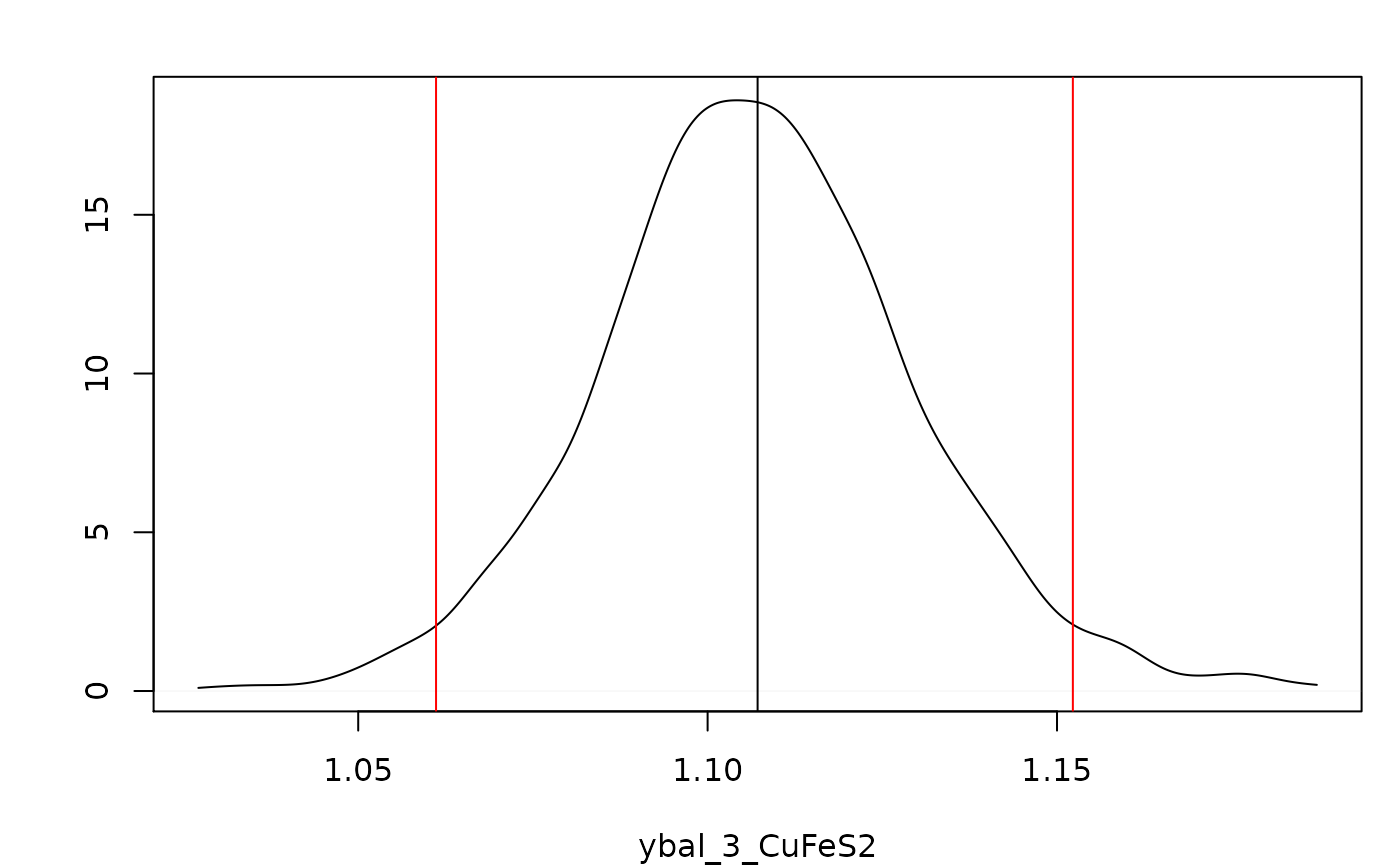
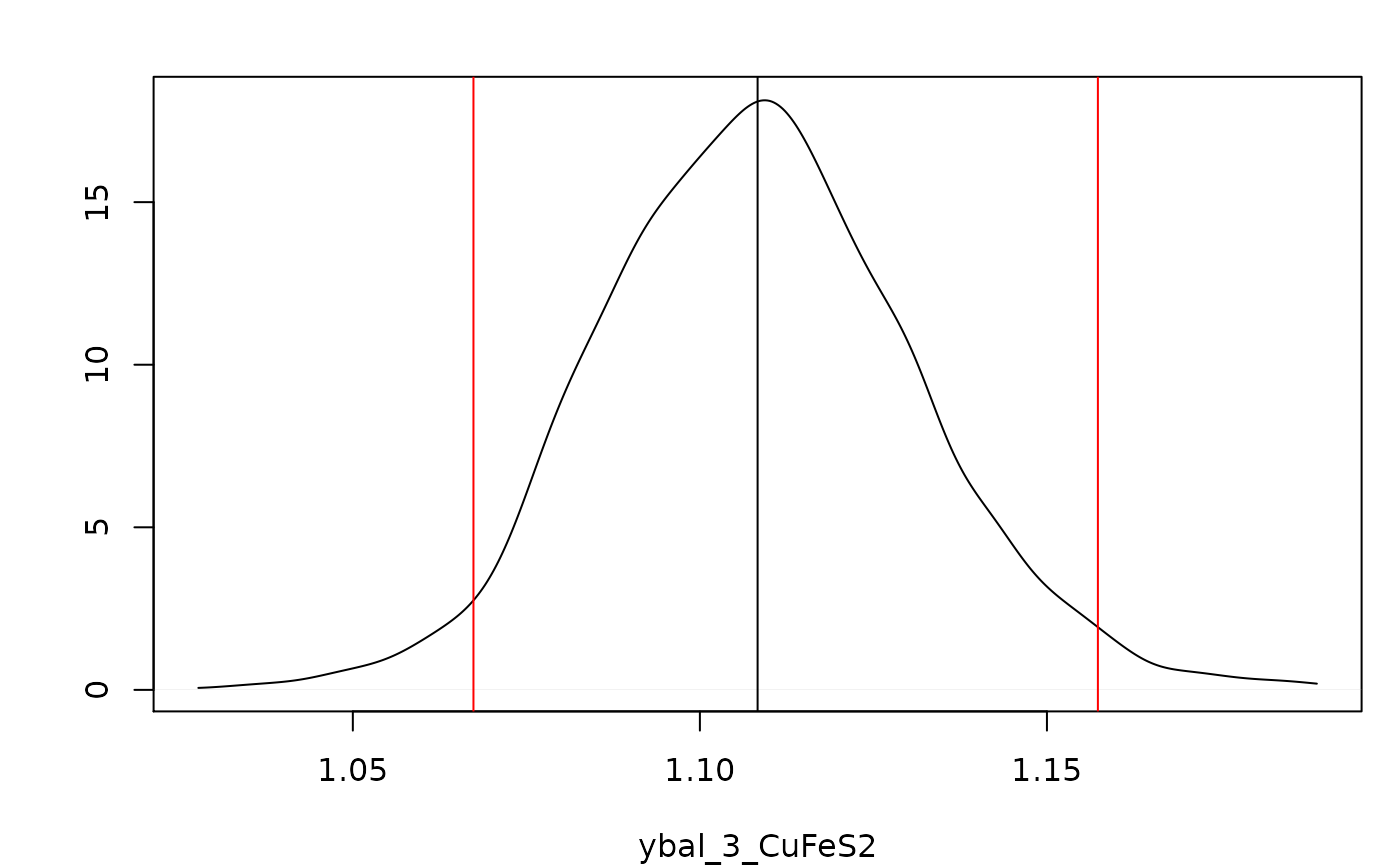
minor changes before submission

diff --git a/docs/articles/Two_Node_Process.html b/docs/articles/Two_Node_Process.html
@@ -89,7 +89,7 @@
       <h1 data-toc-skip>Two_Node_Process</h1>
                         <h4 class="author">Scott Koermer</h4>
             
-            <h4 class="date">2020-11-08</h4>
+            <h4 class="date">2020-11-09</h4>
       
       <small class="dont-index">Source: <a href="https://github.com/skoermer/BayesMassBal/blob/master/vignettes/Two_Node_Process.Rmd"><code>vignettes/Two_Node_Process.Rmd</code></a></small>
       <div class="hidden name"><code>Two_Node_Process.Rmd</code></div>
@@ -151,34 +151,34 @@ y_2 &amp;= y_3 +y_5
 <span class="va">indep.samples</span><span class="op">$</span><span class="va">diagnostics</span>
 <span class="co">#&gt; $beta</span>
 <span class="co">#&gt; $beta$CuFeS2</span>
-<span class="co">#&gt;   index          cd      ess</span>
-<span class="co">#&gt; 1     1 -0.07240032 2578.315</span>
-<span class="co">#&gt; 2     2  0.47912951 3151.158</span>
-<span class="co">#&gt; 3     3 -0.07751371 2900.000</span>
+<span class="co">#&gt;   index         cd      ess</span>
+<span class="co">#&gt; 1     1  1.3979343 2732.815</span>
+<span class="co">#&gt; 2     2 -0.1684241 2900.000</span>
+<span class="co">#&gt; 3     3  0.2693305 3163.968</span>
 <span class="co">#&gt; </span>
 <span class="co">#&gt; $beta$gangue</span>
-<span class="co">#&gt;   index        cd      ess</span>
-<span class="co">#&gt; 1     1 -1.644540 3486.481</span>
-<span class="co">#&gt; 2     2 -1.094662 2900.000</span>
-<span class="co">#&gt; 3     3 -1.420049 1654.129</span>
+<span class="co">#&gt;   index         cd      ess</span>
+<span class="co">#&gt; 1     1  0.6183079 2900.000</span>
+<span class="co">#&gt; 2     2 -1.4191940 2900.000</span>
+<span class="co">#&gt; 3     3  0.3668082 1866.849</span>
 <span class="co">#&gt; </span>
 <span class="co">#&gt; </span>
 <span class="co">#&gt; $Sig</span>
 <span class="co">#&gt; $Sig[[1]]</span>
-<span class="co">#&gt;   index         cd      ess</span>
-<span class="co">#&gt; 1     1 -0.9586344 2900.000</span>
-<span class="co">#&gt; 2     2  0.9182970 2900.000</span>
-<span class="co">#&gt; 3     3 -0.6350184 2549.251</span>
-<span class="co">#&gt; 4     4  0.3646571 2155.174</span>
-<span class="co">#&gt; 5     5  0.5131796 1830.893</span>
+<span class="co">#&gt;   index          cd      ess</span>
+<span class="co">#&gt; 1     1 -0.57749132 2900.000</span>
+<span class="co">#&gt; 2     2 -0.28618166 2900.000</span>
+<span class="co">#&gt; 3     3  1.24462006 2677.654</span>
+<span class="co">#&gt; 4     4 -0.09395031 1706.097</span>
+<span class="co">#&gt; 5     5  0.03136860 1788.442</span>
 <span class="co">#&gt; </span>
 <span class="co">#&gt; $Sig[[2]]</span>
 <span class="co">#&gt;   index         cd      ess</span>
-<span class="co">#&gt; 1     1 -0.2027267 2900.000</span>
-<span class="co">#&gt; 2     2  0.3269525 2304.216</span>
-<span class="co">#&gt; 3     3 -0.8969547 1874.293</span>
-<span class="co">#&gt; 4     4  0.1011873 2566.058</span>
-<span class="co">#&gt; 5     5  0.6621888 1928.485</span></pre></div>
+<span class="co">#&gt; 1     1  0.3152249 2900.000</span>
+<span class="co">#&gt; 2     2  0.9308457 2150.720</span>
+<span class="co">#&gt; 3     3 -2.1197132 1793.527</span>
+<span class="co">#&gt; 4     4 -1.9969727 2669.573</span>
+<span class="co">#&gt; 5     5 -2.1514198 2190.380</span></pre></div>
 <p>The model with independent variances may not be the best fitting model. Models specifying covariance between sample locations for a single component, and covariance between components at a single location are fit.</p>
 <div class="sourceCode" id="cb10"><pre class="downlit">
 <span class="va">component.samples</span> <span class="op">&lt;-</span> <span class="fu"><a href="../reference/BMB.html">BMB</a></span><span class="op">(</span>X <span class="op">=</span> <span class="va">X</span>, y <span class="op">=</span> <span class="va">y</span>, cov.structure <span class="op">=</span> <span class="st">"component"</span>, BTE <span class="op">=</span> <span class="fu"><a href="https://rdrr.io/r/base/c.html">c</a></span><span class="op">(</span><span class="fl">100</span>,<span class="fl">3000</span>,<span class="fl">1</span><span class="op">)</span>, lml <span class="op">=</span> <span class="cn">TRUE</span>, verb <span class="op">=</span> <span class="fl">0</span><span class="op">)</span></pre></div>
@@ -187,11 +187,11 @@ y_2 &amp;= y_3 +y_5
 <p>Computing <span class="math inline">\(\log(\mathrm{Bayes Factor})\)</span> for <span class="math inline">\(BF = p(y|\texttt{indep})/p(y|\texttt{component})\)</span>:</p>
 <div class="sourceCode" id="cb12"><pre class="downlit">
 <span class="va">indep.samples</span><span class="op">$</span><span class="va">lml</span> <span class="op">-</span> <span class="va">component.samples</span><span class="op">$</span><span class="va">lml</span>
-<span class="co">#&gt; [1] -126.9192</span></pre></div>
+<span class="co">#&gt; [1] -126.9039</span></pre></div>
 <p>Then comparing <span class="math inline">\(p(y|\texttt{component})\)</span> to <span class="math inline">\(p(y|\texttt{location})\)</span></p>
 <div class="sourceCode" id="cb13"><pre class="downlit">
 <span class="va">component.samples</span><span class="op">$</span><span class="va">lml</span> <span class="op">-</span> <span class="va">location.samples</span><span class="op">$</span><span class="va">lml</span>
-<span class="co">#&gt; [1] 0.8008081</span></pre></div>
+<span class="co">#&gt; [1] 0.7859362</span></pre></div>
 <p>Shows there is little difference between the models where <code>cov.structure  = "location"</code> and <code>cov.structure = "component"</code>, but both of these models better explain the data than <code>cov.structure = "indep"</code>.</p>
 <p>We can view a summary of the favored model by passing a <code>BayesMassBal</code> object to the <code>summary</code> function. While not done in this case, the summary table can be saved by passing the desired name of a <code>*.csv</code> file to the <code>export</code> argument.</p>
 <div class="sourceCode" id="cb14"><pre class="downlit">
@@ -201,33 +201,33 @@ y_2 &amp;= y_3 +y_5
 <span class="co">#&gt; CuFeS2:</span>
 <span class="co">#&gt; --------------------</span>
 <span class="co">#&gt;  Sampling Location Expected Value     95% LB     95% UB</span>
-<span class="co">#&gt;                  1     1.19777726 1.15164485 1.24984366</span>
-<span class="co">#&gt;                  2     1.17252036 1.12461802 1.22275441</span>
-<span class="co">#&gt;                  3     1.10963099 1.05733544 1.16062038</span>
-<span class="co">#&gt;                  4     0.02525690 0.01691983 0.03375422</span>
-<span class="co">#&gt;                  5     0.06288937 0.05223589 0.07362650</span>
+<span class="co">#&gt;                  1     1.19733239 1.14397147 1.24303602</span>
+<span class="co">#&gt;                  2     1.17213407 1.12358704 1.22142801</span>
+<span class="co">#&gt;                  3     1.10918956 1.05835921 1.16213675</span>
+<span class="co">#&gt;                  4     0.02519832 0.01676847 0.03377706</span>
+<span class="co">#&gt;                  5     0.06294451 0.05206706 0.07274191</span>
 <span class="co">#&gt; </span>
 <span class="co">#&gt; gangue:</span>
 <span class="co">#&gt; --------------------</span>
 <span class="co">#&gt;  Sampling Location Expected Value     95% LB     95% UB</span>
-<span class="co">#&gt;                  1    100.1212613 94.9474147 105.151859</span>
-<span class="co">#&gt;                  2      6.6542360  5.7586941   7.493315</span>
-<span class="co">#&gt;                  3      0.2601138  0.2245473   0.291954</span>
-<span class="co">#&gt;                  4     93.4670253 88.8766105  98.386855</span>
-<span class="co">#&gt;                  5      6.3941222  5.4969189   7.228297</span>
+<span class="co">#&gt;                  1    100.2105611 95.3578936 105.269003</span>
+<span class="co">#&gt;                  2      6.6696064  5.8746943   7.468831</span>
+<span class="co">#&gt;                  3      0.2605252  0.2291955   0.296636</span>
+<span class="co">#&gt;                  4     93.5409547 88.6529290  98.124542</span>
+<span class="co">#&gt;                  5      6.4090812  5.6123125   7.193310</span>
 <span class="co">#&gt; </span>
 <span class="co">#&gt; Total:</span>
 <span class="co">#&gt; --------------------</span>
 <span class="co">#&gt;  Sampling Location Expected Value    95% LB     95% UB</span>
-<span class="co">#&gt;                  1     101.319039 96.534361 106.719512</span>
-<span class="co">#&gt;                  2       7.826756  6.920009   8.661167</span>
-<span class="co">#&gt;                  3       1.369745  1.313347   1.434416</span>
-<span class="co">#&gt;                  4      93.492282 88.896270  98.406859</span>
-<span class="co">#&gt;                  5       6.457012  5.553997   7.286979</span>
+<span class="co">#&gt;                  1     101.407893 96.574737 106.474593</span>
+<span class="co">#&gt;                  2       7.841740  7.051052   8.647296</span>
+<span class="co">#&gt;                  3       1.369715  1.313260   1.432862</span>
+<span class="co">#&gt;                  4      93.566153 88.737090  98.209530</span>
+<span class="co">#&gt;                  5       6.472026  5.664547   7.246691</span>
 <span class="co">#&gt; </span>
 <span class="co">#&gt; </span>
 <span class="co">#&gt; log-marginal likelihood:</span>
-<span class="co">#&gt; -66.0260902365243</span></pre></div>
+<span class="co">#&gt; -66.0396566937608</span></pre></div>
 <p>The main effect of a variable independent of the process can be calculated by supplying a function, <code>fn</code> that takes the arguments of mass balanced flow rates <code>ybal</code>, and the random independent and uniformly distributed variables <code>x</code>. Information can be gained on the main effect of a particular element of <code>x</code>, <code>xj</code>, on <code>fn</code> using the <code>mainEff</code> function. Output from <code>mainEff</code> includes information on the distribution of <span class="math inline">\(E_x\lbrack f(x,y_{\mathrm{bal}})|x_j \rbrack\)</span>.</p>
 <div class="sourceCode" id="cb15"><pre class="downlit">
 <span class="va">fn_example</span> <span class="op">&lt;-</span> <span class="kw">function</span><span class="op">(</span><span class="va">X</span>,<span class="va">ybal</span><span class="op">)</span><span class="op">{</span>

diff --git a/docs/news/index.html b/docs/news/index.html
@@ -141,17 +141,6 @@
 <li>ssEst function allows for fitting of a Bayesian lag-1 autoregressive model to a set of mass flow observations so that average behavior time to steady state can be inferred</li>
 <li>In BMB where independent variance is specified, inference is conducted on variance instead of precision</li>
 <li>Change in default prior specification for BMB function, ability to specify Jeffreys priors</li>
-</ul>
-</div>
-</div>
-    <div id="bayesmassbal-021" class="section level1">
-<h1 class="page-header" data-toc-text="0.2.1">
-<a href="#bayesmassbal-021" class="anchor"></a>BayesMassBal 0.2.1<small> Unreleased </small>
-</h1>
-<div id="major-changes-1" class="section level2">
-<h2 class="hasAnchor">
-<a href="#major-changes-1" class="anchor"></a>Major Changes</h2>
-<ul>
 <li>Markov chain Monte Carlo diagnostics are now available directly from the BMB function</li>
 </ul>
 </div>

diff --git a/cran-comments.md b/cran-comments.md
@@ -1,17 +1,17 @@
 ## Test environments
-* local windows install, R 4.0.2
-* ubuntu 16.04 xenial (on travis-ci), R 3.6.3
-* ubuntu 16.04 xenial (on travis-ci), R 4.0.0
-* ubuntu 16.04 xenial (on travis-ci), R devel
-* OSX (on travis-ci), R 3.6.3
-* OSX (on travis-ci), R 4.0.2
-* Windows Server (on appveyor), R 4.0.2
+* Local ubuntu 20.04.1 focal, R 4.0.3
+* ubuntu 16.04.6 LTS (on travis-ci), R 3.6.3
+* ubuntu 16.04.6 LTS (on travis-ci), R 4.0.2
+* ubuntu 16.04.6 LTS (on travis-ci), R devel
+* macOS High Sierra 10.13.6 (on travis-ci), R 3.6.3
+* macOS High Sierra 10.13.6, R 4.0.3
+* Windows Server (on appveyor), R 4.0.3
 * Ran devtools::check_rhub() with defaults
 * Ran devtools::check_win_devel() with defaults
 
 ## R CMD check results
 
-0 errors | 0 warnings | 0 notes
+0 errors ✓ | 0 warnings ✓ | 0 notes ✓
 
 
 ## Downstream dependencies

diff --git a/NEWS.md b/NEWS.md
@@ -6,12 +6,8 @@
 * ssEst function allows for fitting of a Bayesian lag-1 autoregressive model to a set of mass flow observations so that average behavior time to steady state can be inferred
 * In BMB where independent variance is specified, inference is conducted on variance instead of precision
 * Change in default prior specification for BMB function, ability to specify Jeffreys priors
-
-# BayesMassBal 0.2.1
-
-## Major Changes
-
 * Markov chain Monte Carlo diagnostics are now available directly from the BMB function
+
 
 ## Bug Fixes
 
